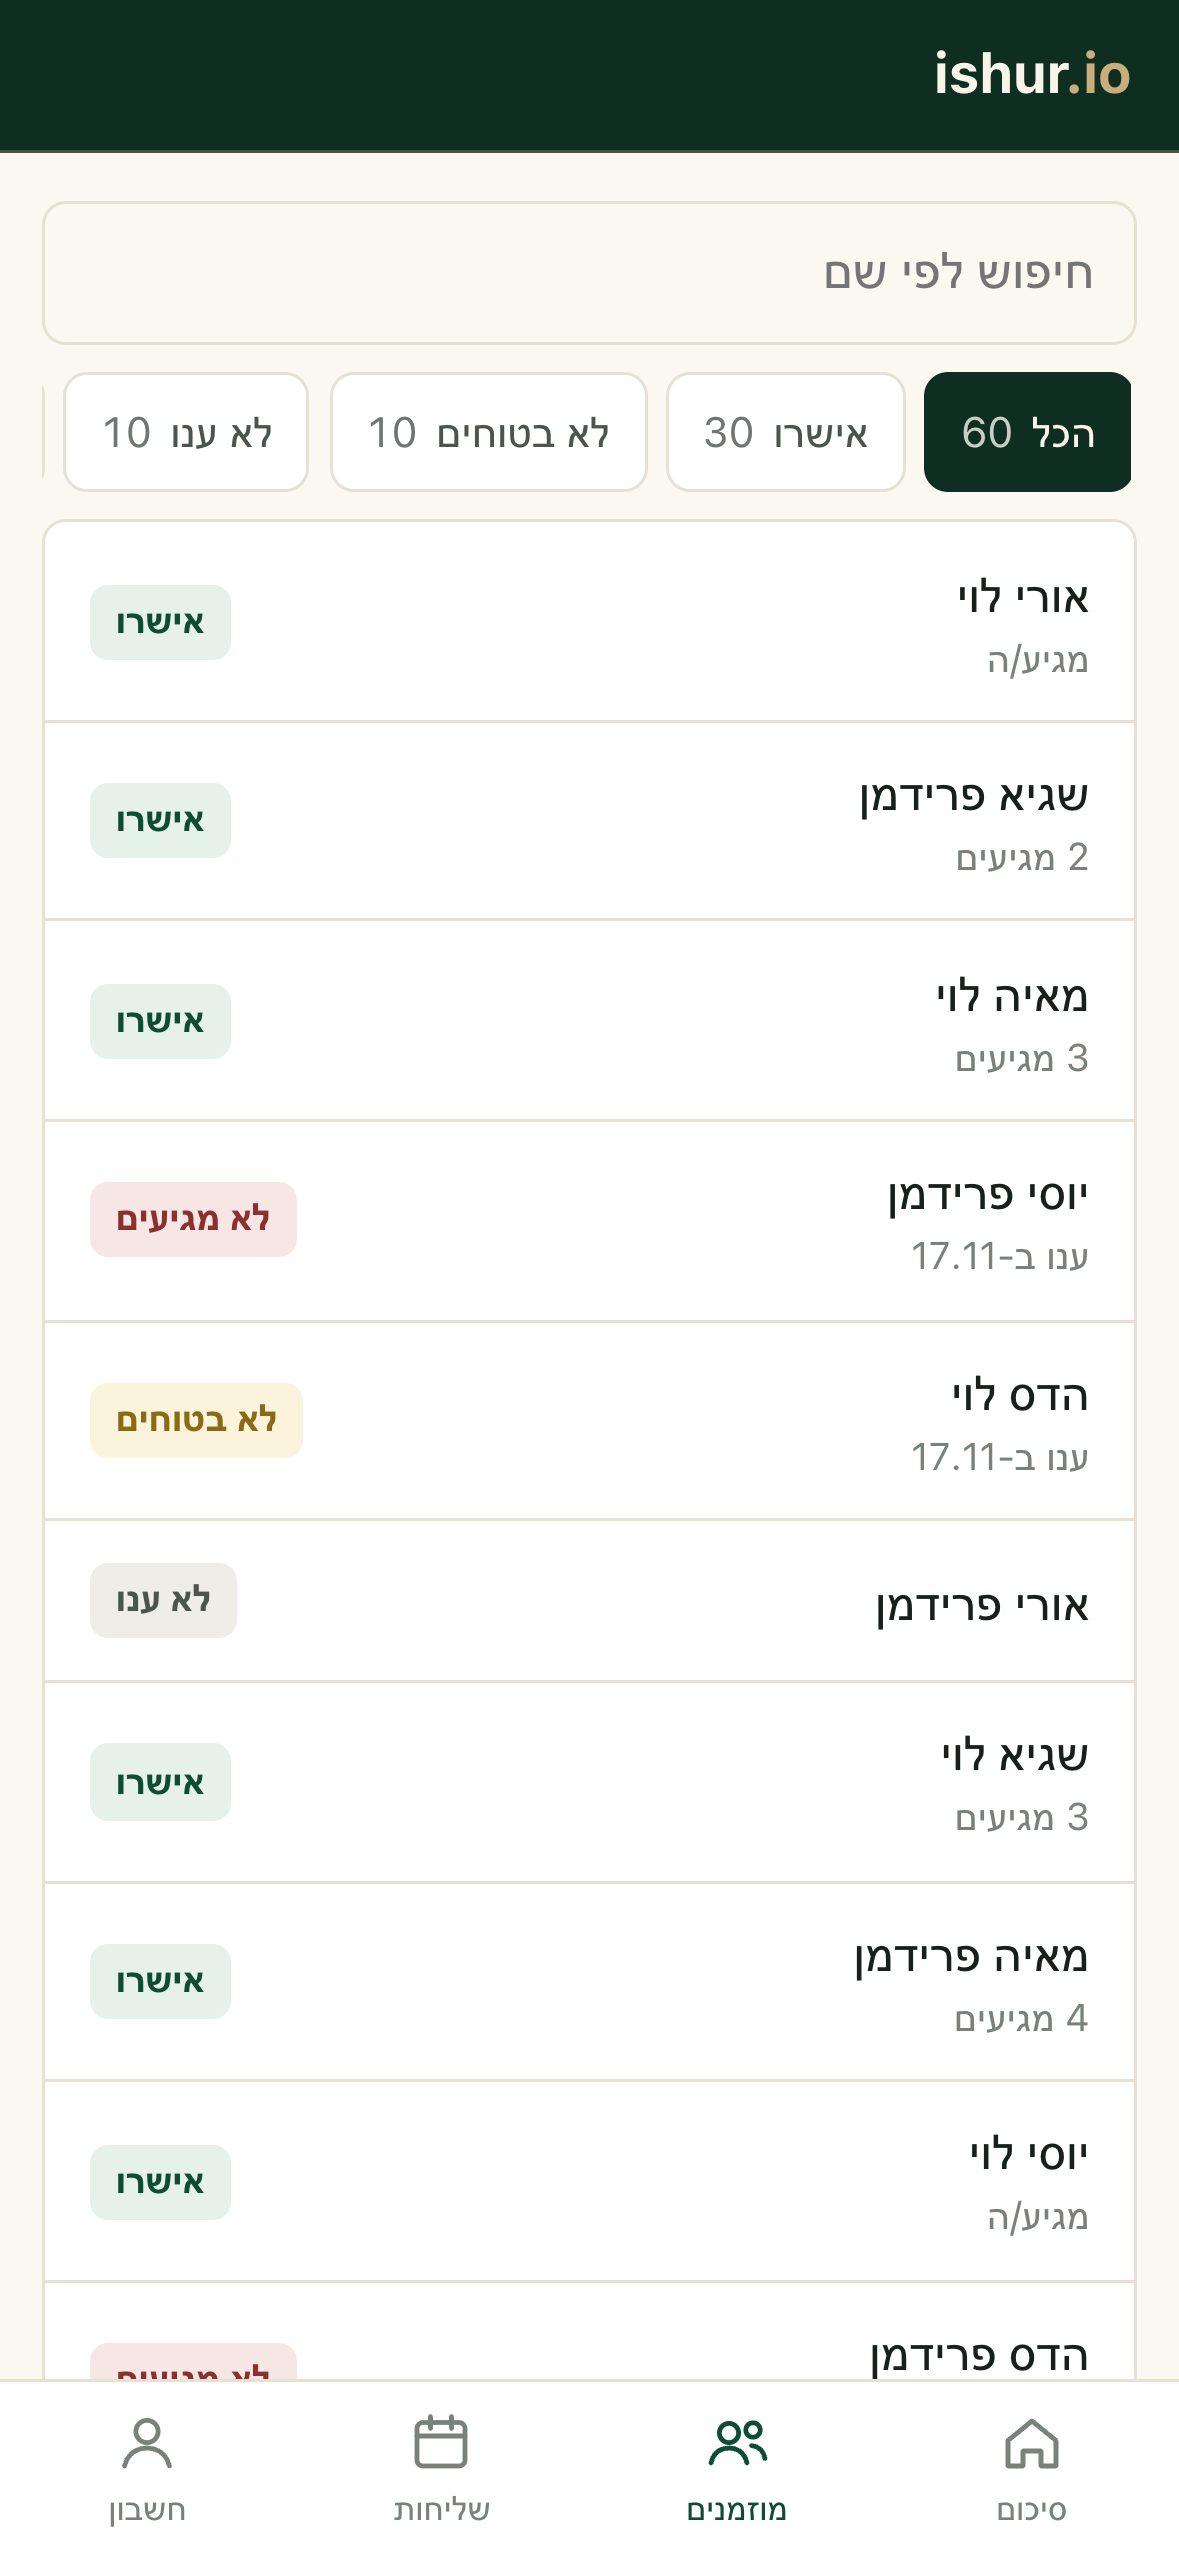
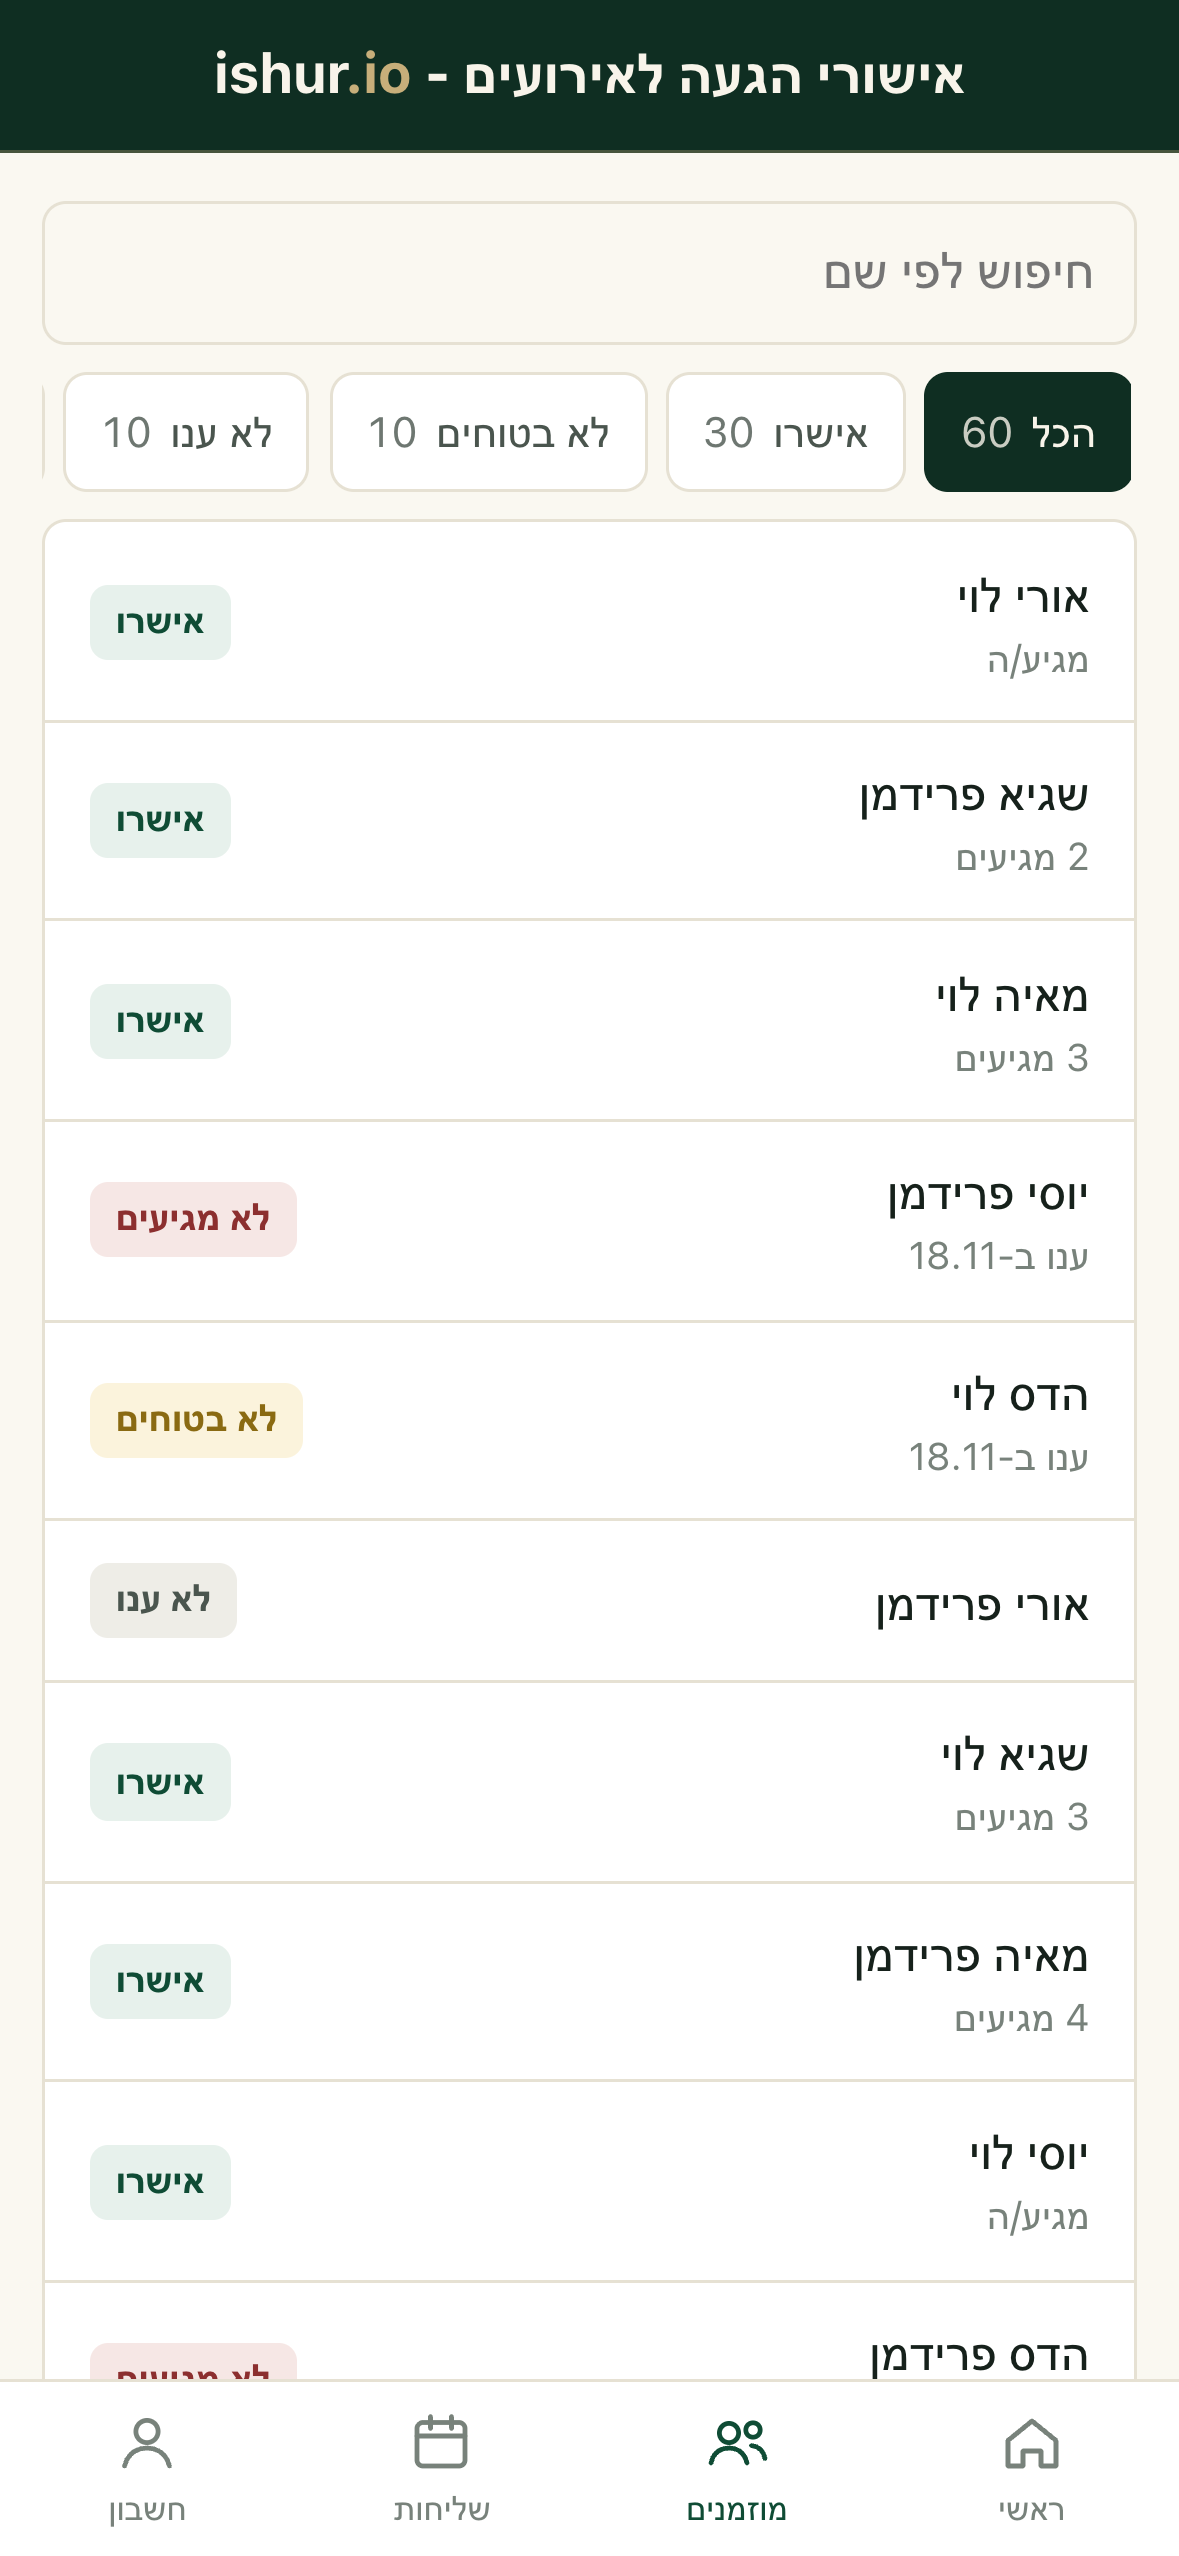
client-app: home tab is the regular board (app summary as offline fallback), header 'אישורי הגעה לאירועים - ishur.io', fix first load of the board, check 31/31, full screenshot set

diff --git a/app/www/app.js b/app/www/app.js
@@ -79,9 +79,14 @@
   function show(signedIn) {
     $('signin').hidden = signedIn; $('app').hidden = !signedIn; $('tabs').hidden = !signedIn;
   }
+  /* Home ("ראשי") is the regular client board itself, so the app looks and works like the board clients know.
+     With no network the app's own summary takes its place, from the copy saved on the device. */
+  var offline = (navigator.onLine === false);
   function tab(name) {
+    if (name === 'board' && offline) name = 'summary';
     ['summary', 'guests', 'sends', 'board', 'account'].forEach(function (t) { $('v-' + t).hidden = t !== name; });
-    Array.prototype.forEach.call(document.querySelectorAll('#tabs button'), function (b) { b.classList.toggle('on', b.getAttribute('data-tab') === name); });
+    var lit = name === 'summary' ? 'board' : name;
+    Array.prototype.forEach.call(document.querySelectorAll('#tabs button'), function (b) { b.classList.toggle('on', b.getAttribute('data-tab') === lit); });
     window.scrollTo(0, 0);
     if (name === 'board') openBoard();
   }
@@ -168,6 +173,9 @@
     loading = true;
     return post('/api/status', { token: current, board_session: session }).then(function (r) {
       loading = false;
+      var was = offline; offline = r.status === 0;
+      if (offline && !$('v-board').hidden) tab('summary');
+      if (was && !offline && !$('v-summary').hidden) tab('board');
       if (r.status === 200 && r.body.ok) {
         data = normalize(slim(r.body)); store.set('data:' + current, data); store.set('at:' + current, Date.now()); render();
       } else if (r.status === 401 && r.body.error === 'pin-required') { signOut(true); }
@@ -187,8 +195,8 @@
     });
   }
   function start() {
-    show(true); tab('summary'); render();
-    loadAccount().then(function (ok) { if (ok) { render(); return loadEvent(); } });
+    show(true); tab('board'); render();
+    loadAccount().then(function (ok) { if (ok) { render(); if (!$('v-board').hidden) openBoard(); return loadEvent(); } });
     document.dispatchEvent(new CustomEvent('ishur:signed-in', { detail: { session: session } }));
   }
   function signOut(silent) {
@@ -223,7 +231,7 @@
   $('filters').addEventListener('click', function (e) { var b = e.target.closest('button'); if (!b) return; filter = b.getAttribute('data-f'); render(); });
   document.querySelector('.grid').addEventListener('click', function (e) { var b = e.target.closest('button'); if (!b) return; filter = b.getAttribute('data-go'); tab('guests'); render(); });
   $('search').addEventListener('input', renderGuests);
-  function pickEvent(tok) { if (!tok || tok === current) return; current = tok; boardFor = ''; $('boardFrame').removeAttribute('src'); store.set('current', tok); data = null; filter = 'all'; tab('summary'); render(); loadEvent(); }
+  function pickEvent(tok) { if (!tok || tok === current) return; current = tok; boardFor = ''; $('boardFrame').removeAttribute('src'); store.set('current', tok); data = null; filter = 'all'; tab('board'); render(); loadEvent(); }
   $('evList').addEventListener('click', function (e) { var b = e.target.closest('button'); if (b) pickEvent(b.getAttribute('data-ev')); });
   $('evSwitch').addEventListener('click', function () { tab('account'); });
   $('share').addEventListener('click', function () {
@@ -249,6 +257,8 @@
   });
 
   /* refresh when the app comes back to the front, and by pulling down at the top of a list */
+  window.addEventListener('offline', function () { offline = true; if (!$('v-board').hidden) tab('summary'); });
+  window.addEventListener('online', function () { if (session) loadEvent(true); });
   document.addEventListener('visibilitychange', function () { if (!document.hidden && session) loadEvent(true); });
   var pullY = null;
   document.addEventListener('touchstart', function (e) { pullY = window.scrollY <= 0 ? e.touches[0].clientY : null; }, { passive: true });

diff --git a/app/www/index.html b/app/www/index.html
@@ -14,7 +14,7 @@
 <main id="signin" hidden>
   <header class="head">
     <img src="img/logo-gold.png" alt="" width="44" height="44">
-    <div class="brand">אישורי הגעה - <bdi>ishur<span>.io</span></bdi></div>
+    <div class="brand">אישורי הגעה לאירועים - <bdi>ishur<span>.io</span></bdi></div>
   </header>
   <form class="card" id="signinForm" novalidate>
     <h1>כניסה ללוח האירוע</h1>
@@ -32,7 +32,7 @@
 <!-- signed in -->
 <div id="app" hidden>
   <header class="head small">
-    <div class="brand">אישורי הגעה - <bdi>ishur<span>.io</span></bdi></div>
+    <div class="brand">אישורי הגעה לאירועים - <bdi>ishur<span>.io</span></bdi></div>
     <button id="evSwitch" class="evswitch" type="button" hidden></button>
   </header>
 
@@ -82,7 +82,7 @@
   </section>
 
   <section id="v-sends" class="view" hidden>
-    <div class="card"><div class="eyebrow">לוח השליחות</div><p class="sub">מה יוצא למוזמנים ומתי. שינוי תאריך, תמונה וסגנון נעשים בלשונית ניהול.</p></div>
+    <div class="card"><div class="eyebrow">לוח השליחות</div><p class="sub">מה יוצא למוזמנים ומתי. שינוי תאריך, תמונה וסגנון נעשים בלשונית ראשי.</p></div>
     <div id="sendRows" class="list"></div>
   </section>
 
@@ -117,10 +117,9 @@
   </section>
 
   <nav id="tabs" class="tabs" hidden>
-    <button data-tab="summary" class="on"><svg viewBox="0 0 24 24"><path d="M4 11.5 12 5l8 6.5V20h-5v-5H9v5H4z"/></svg><span>סיכום</span></button>
+    <button data-tab="board" class="on"><svg viewBox="0 0 24 24"><path d="M4 11.5 12 5l8 6.5V20h-5v-5H9v5H4z"/></svg><span>ראשי</span></button>
     <button data-tab="guests"><svg viewBox="0 0 24 24"><circle cx="9" cy="9" r="3.2"/><path d="M3 19c.6-3.2 3-5 6-5s5.4 1.8 6 5"/><circle cx="17" cy="8" r="2.4"/><path d="M16.5 13.2c2.4.2 4 1.700 4.500 4.300"/></svg><span>מוזמנים</span></button>
     <button data-tab="sends"><svg viewBox="0 0 24 24"><rect x="4" y="5.500" width="16" height="14.500" rx="2"/><path d="M4 10h16M8.500 3.500v4M15.500 3.500v4"/></svg><span>שליחות</span></button>
-    <button data-tab="board"><svg viewBox="0 0 24 24"><rect x="4" y="4" width="7" height="7" rx="1.5"/><rect x="13" y="4" width="7" height="7" rx="1.5"/><rect x="4" y="13" width="7" height="7" rx="1.5"/><rect x="13" y="13" width="7" height="7" rx="1.5"/></svg><span>ניהול</span></button>
     <button data-tab="account"><svg viewBox="0 0 24 24"><circle cx="12" cy="8.500" r="3.700"/><path d="M4.500 20c.9-3.900 3.900-6 7.500-6s6.600 2.100 7.500 6"/></svg><span>חשבון</span></button>
   </nav>
 </div>

diff --git a/.sdlc/client-app/intent.md b/.sdlc/client-app/intent.md
@@ -49,6 +49,13 @@ My reading: a client who just bought signs in to the app and does the whole setu
 guest upload), and sees every event on their phone number. Covered by the board-inside-the-app decision, extended
 to the pages the board links to (guest upload first).
 
+## Richard, 20/11/2026 (third round, in chat)
+- Header in the middle, reads "אישורי הגעה לאירועים" (first he wrote "אישורי הגעה - ishur.io"; I kept "- ishur.io"
+  after the new title, my reading). Done.
+- The main screen should look like the client board on the site, with the event details and the invitation (image,
+  text). Done by making home ("ראשי") the board itself; the app's own summary is the no-network fallback.
+- He wants to see every screen: `app/store/preview/`.
+
 ## Open questions for Richard
 1. App display name (default proposal: "ishur" with subtitle "אישורי הגעה לאירוע").
 2. Push at night: a guest who confirms at 23:00. Proposal: no push 21:00–09:00, held into the 09:00 summary.

diff --git a/app/RUNBOOK.md b/app/RUNBOOK.md
@@ -16,7 +16,7 @@ cd app
 STAGING_SECRETS=/path/to/worker/.staging.secrets PLAYWRIGHT_PATH=/path/to/playwright/index.mjs npm run check
 DEMO=2 ... npm run check        # the demo client with mixed answers
 ```
-Exit 0 and "29/29 passed" is the pass. The script first clears the staging sign-in counters (6 tries an hour per
+Exit 0 and "31/31 passed" is the pass. The script first clears the staging sign-in counters (6 tries an hour per
 phone); that reset exists on staging only. Screenshots land in `test/shots/`.
 
 ## Build for a store
